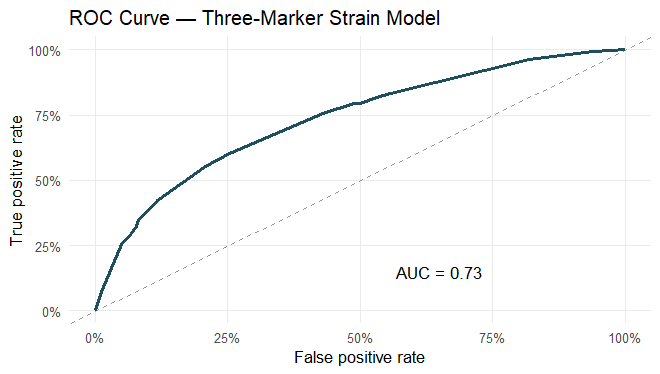
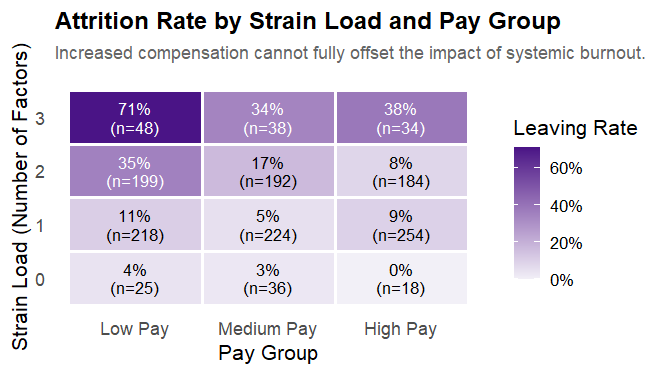
final

diff --git a/README.md b/README.md
@@ -175,7 +175,6 @@ ggplot(attrition_summary, aes(x = PayGroup, y = factor(StrainLoad), fill = Attri
   max-width: 430px;
   font-size: 11px;
   color: black;
-}
 &#10;.income-table th {
   color: black;
   font-weight: bold;
@@ -342,4 +341,4 @@ ggplot(roc, aes(fpr, tpr)) +
        x = "False positive rate", y = "True positive rate")
 ```
 
-![](README_files/figure-gfm/unnamed-chunk-3-1.png)<!-- -->
+![](README_files/figure-gfm/unnamed-chunk-4-1.png)<!-- -->